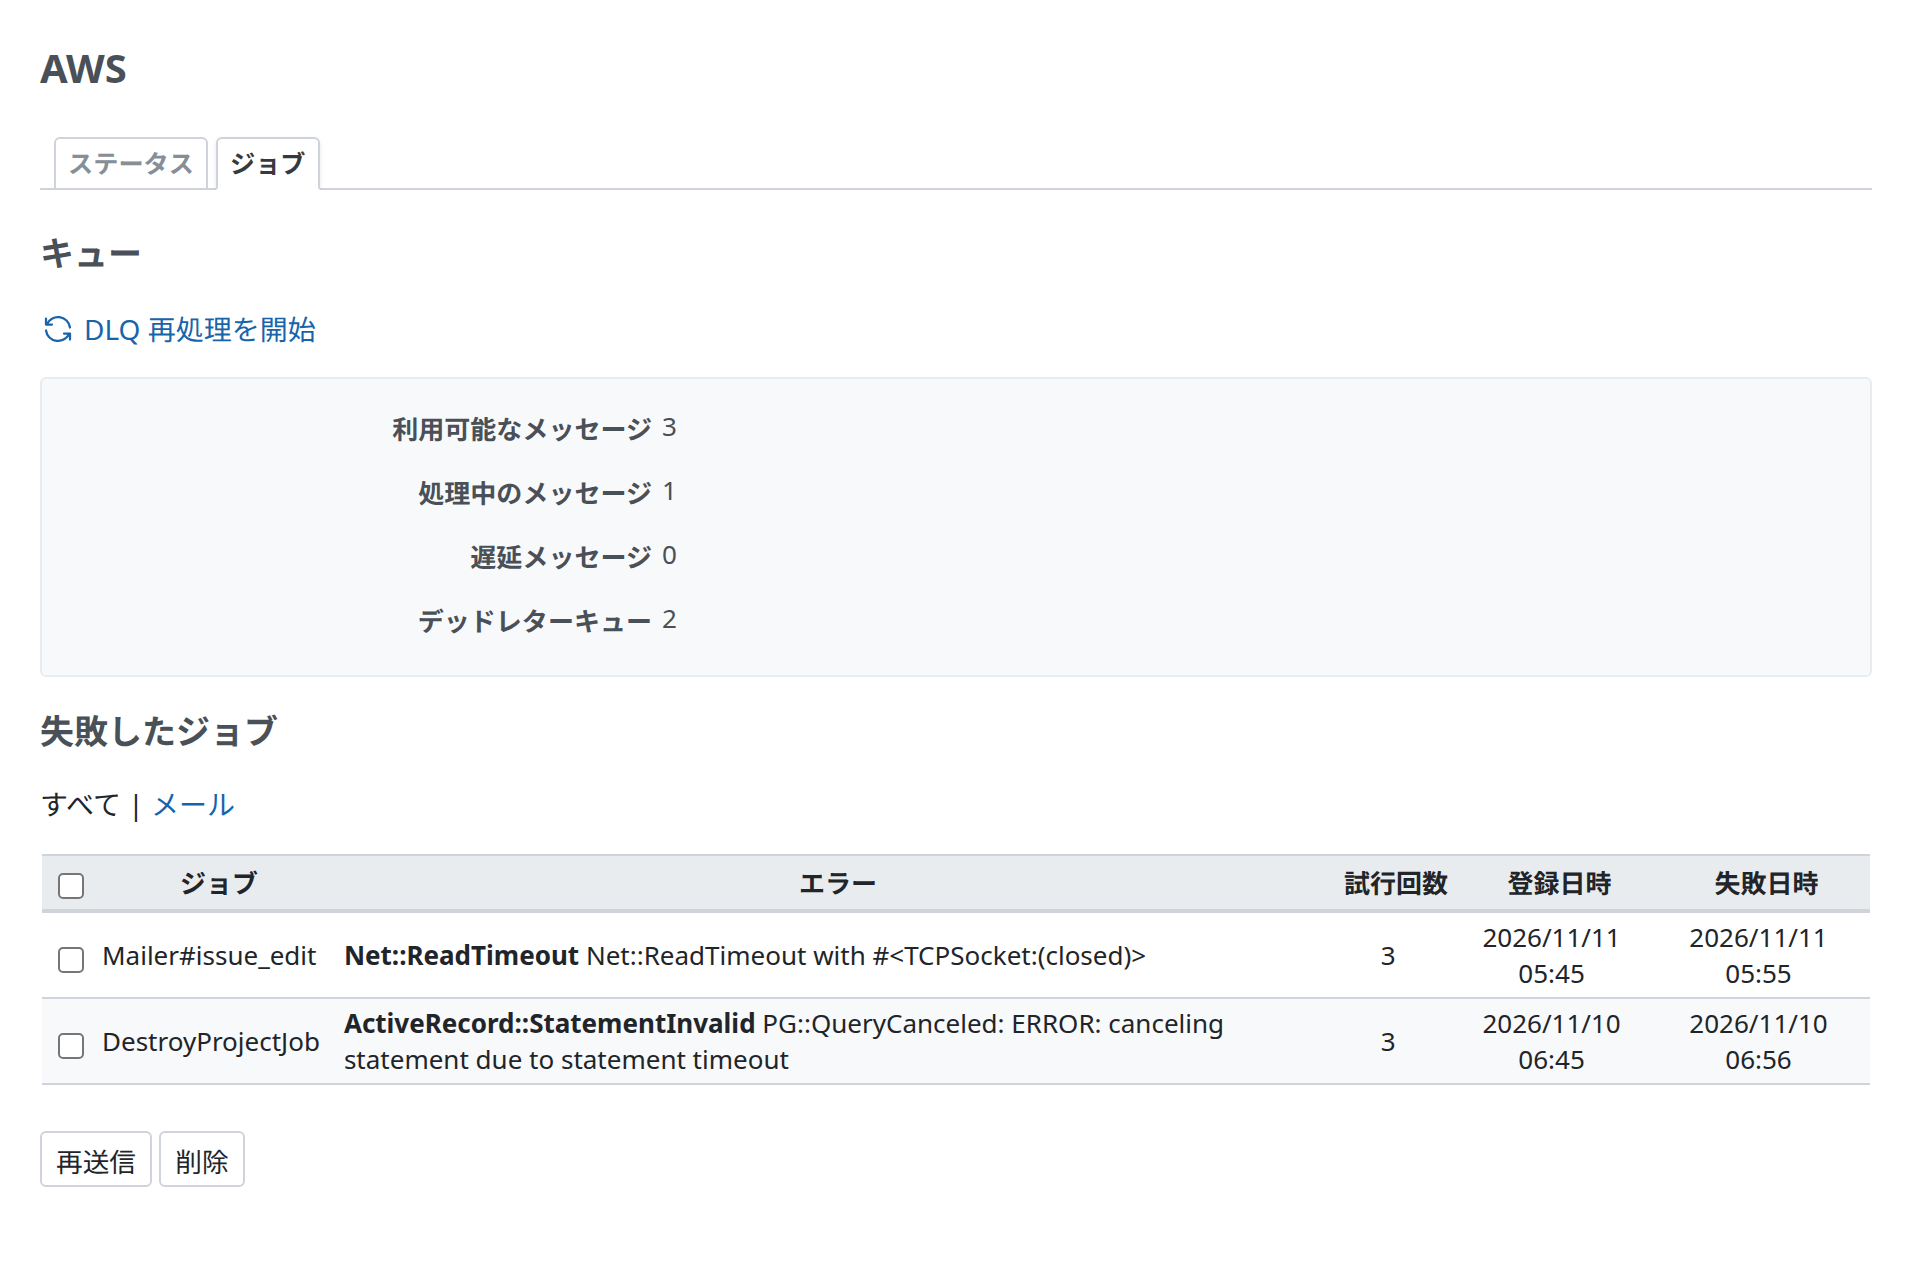
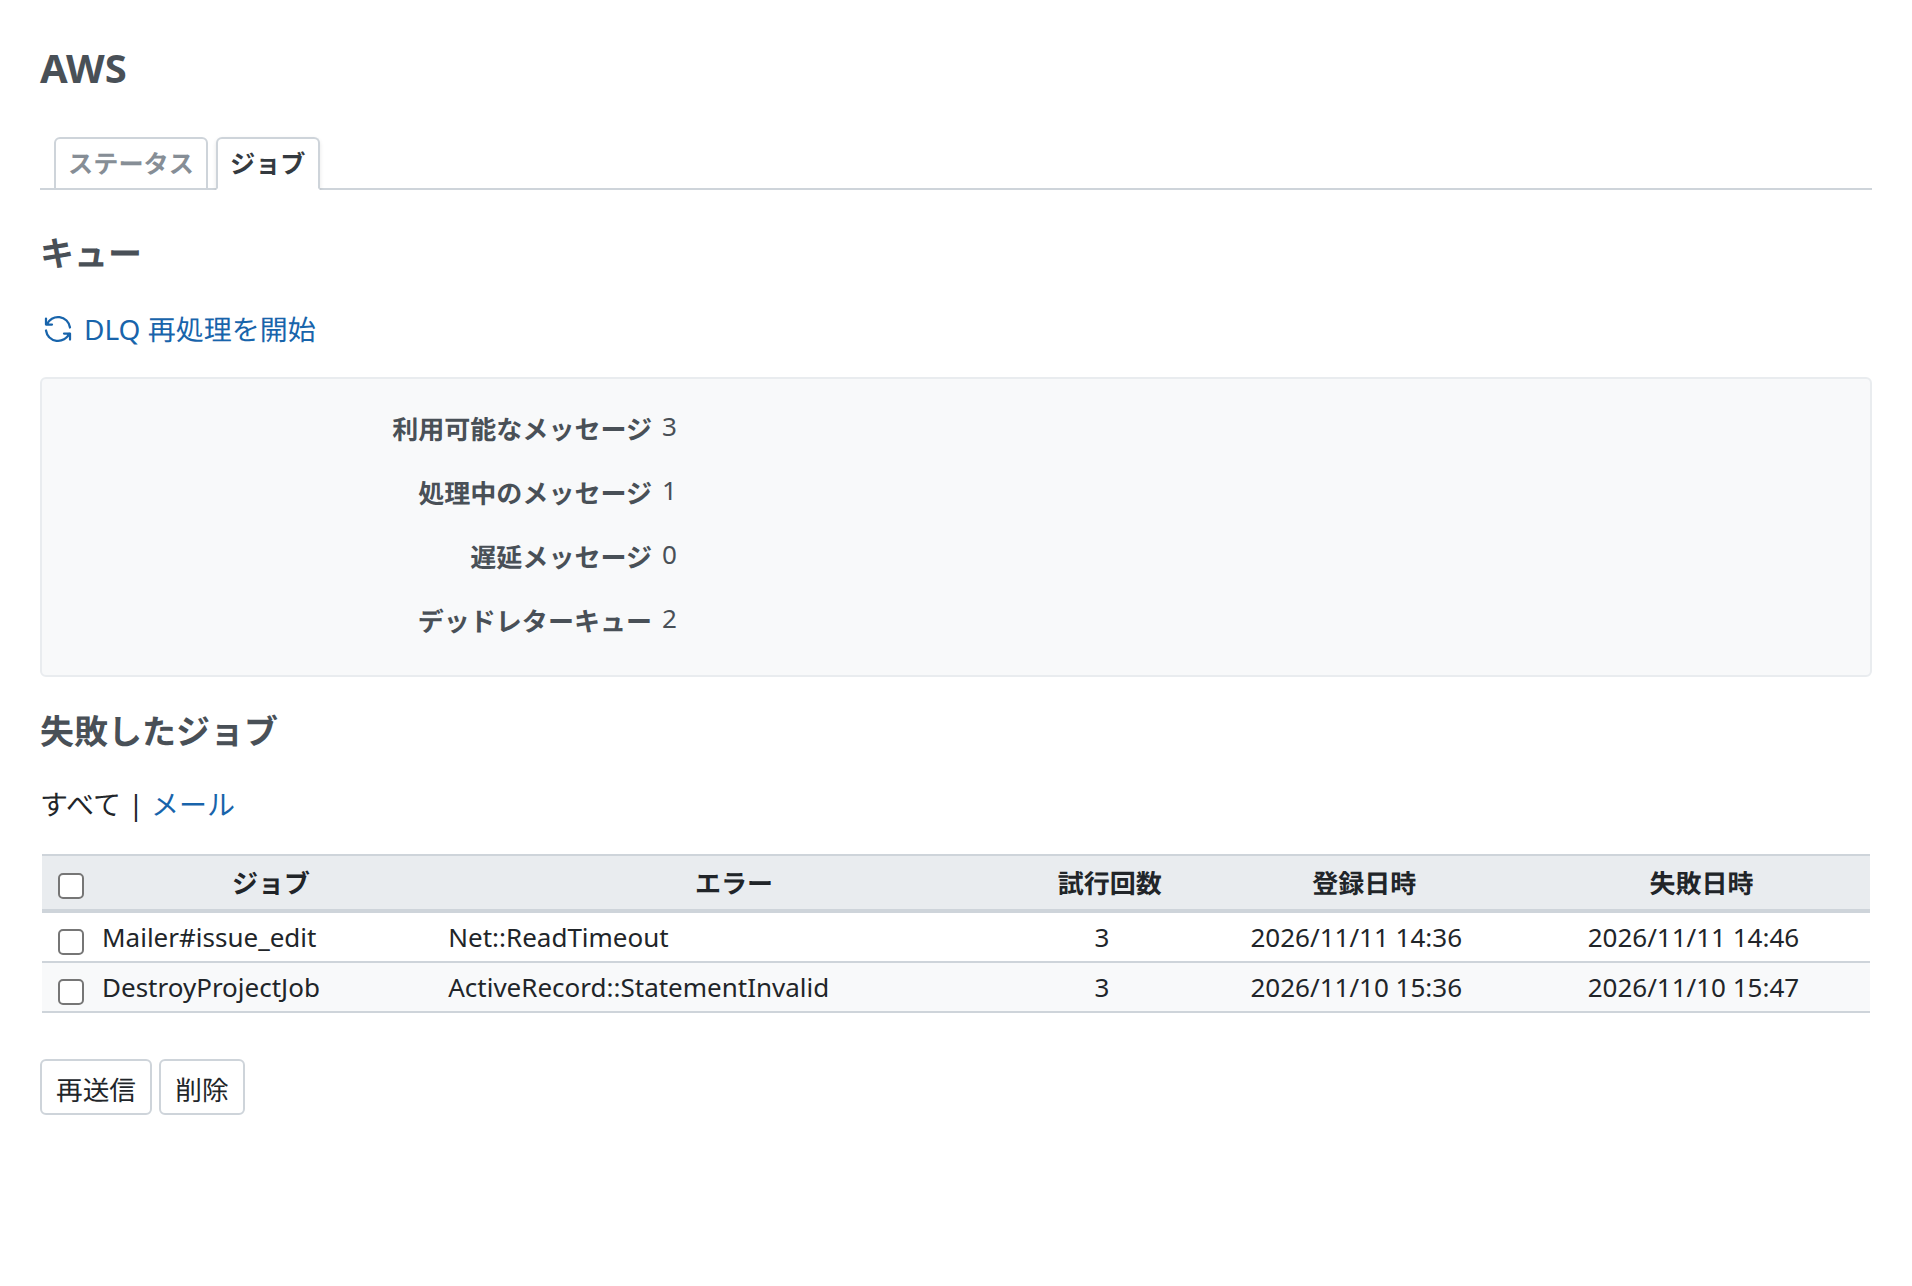
Show only the error's class on the Jobs page
The list of failed jobs showed the error's message, and API errors their
AWS error code. Messages come from services and jobs and may name
accounts, resources or arguments. The page now shows the class, as
Redmine AWS's connection checks do; the message is in the log with the
filtered job (the previous commit).

The record no longer keeps the message: nothing shows it, and the log
is where failures are investigated. Migration 001 drops the
error_message column instead of a later migration removing it, since no
version has been released (no tags).

Changed region(s): [[0.0309, 0.6532, 0.648, 0.9331], [0.648, 0.6532, 0.9566, 0.8398]]

diff --git a/test/functional/aws_sqs_jobs_controller_test.rb b/test/functional/aws_sqs_jobs_controller_test.rb
@@ -45,7 +45,8 @@ module RedmineAws
         end
 
         assert_response :success
-        assert_select 'div.flash.error', text: 'Could not call the SQS API (AccessDenied). See the log for details.'
+        assert_select 'div.flash.error',
+                      text: 'Could not call the SQS API (Aws::SQS::Errors::AccessDenied). See the log for details.'
         assert_not_includes response.body, 'stubbed response error', 'the raw exception message stays in the log'
       end
 
@@ -72,8 +73,18 @@ module RedmineAws
         assert_select '#aws-sqs-job-failures tbody tr', text: /Mailer#test_email/
       end
 
-      # A failed resend: the log has the job with its arguments filtered and
-      # the error's message.
+      # The error's class only, as Redmine AWS's connection checks show it; the
+      # message is in the log.
+      def test_the_list_shows_the_error_class_only
+        record_failure(DestroyProjectJob.new(1, 1, '127.0.0.1'), error: ArgumentError.new('message-secret-22'))
+        with_queue_url(nil) { get :index }
+
+        assert_select '#aws-sqs-job-failures tbody td.description', text: 'ArgumentError'
+        assert_not_includes response.body, 'message-secret-22'
+      end
+
+      # A failed resend: the page names the error's class; the log has the
+      # job with its arguments filtered and the error's message.
       def test_a_failed_resend_is_logged_with_the_job
         job = Mailer.delivery_job.new('Mailer', 'account_information', 'deliver_now', args: [User.find(2), 'pw-23'])
         record = record_failure(job)
@@ -86,7 +97,7 @@ module RedmineAws
           with_sqs_client(client) { post :resend, params: { ids: [record.id] } }
         end
 
-        assert_equal 'Mailer#account_information: Could not call the SQS API (AccessDenied). ' \
+        assert_equal 'Mailer#account_information: Could not call the SQS API (Aws::SQS::Errors::AccessDenied). ' \
                      'See the log for details.', flash[:error]
         assert_includes io.string, "Mailer#account_information(user: #{User.find(2).to_global_id}, " \
                                    'password: [FILTERED]): Aws::SQS::Errors::AccessDenied: ' \

diff --git a/test/screenshots/screens.rb b/test/screenshots/screens.rb
@@ -60,15 +60,13 @@ module RedmineAws
       def record_failures
         now = Time.current
         [
-          ['Mailer::DeliveryJob', 'Mailer#issue_edit', 'mailers', 'Net::ReadTimeout',
-           'Net::ReadTimeout with #<TCPSocket:(closed)>', 3, 3.hours],
-          ['DestroyProjectJob', 'DestroyProjectJob', 'default', 'ActiveRecord::StatementInvalid',
-           'PG::QueryCanceled: ERROR:  canceling statement due to statement timeout', 3, 26.hours]
-        ].each_with_index do |(job_class, summary, queue, error, message, attempts, ago), index|
+          ['Mailer::DeliveryJob', 'Mailer#issue_edit', 'mailers', 'Net::ReadTimeout', 3, 3.hours],
+          ['DestroyProjectJob', 'DestroyProjectJob', 'default', 'ActiveRecord::StatementInvalid', 3, 26.hours]
+        ].each_with_index do |(job_class, summary, queue, error, attempts, ago), index|
           AwsSqsJobFailure.create!(
             job_class: job_class, job_id: SecureRandom.uuid, queue_name: queue, summary: summary,
             job_data: { job_class: job_class, arguments: [] }.to_json,
-            error_class: error, error_message: message, attempts: attempts,
+            error_class: error, attempts: attempts,
             enqueued_at: now - ago - 10.minutes, failed_at: now - ago + index.minutes
           )
         end

diff --git a/app/controllers/aws_sqs_jobs_controller.rb b/app/controllers/aws_sqs_jobs_controller.rb
@@ -63,14 +63,15 @@ class AwsSqsJobsController < ApplicationController
     [nil, api_error(e)]
   end
 
-  # A short message for the page (the AWS error code, or the class), with the
-  # details in the log. job: the message body of a job it concerns,
-  # described with its arguments filtered (RedmineAws::SQS::JobDescription).
+  # A short message for the page with the error's class, as redmine_aws's
+  # connection checks show it; the message, which comes from the service and
+  # may name accounts or resources, goes to the log.
+  # job: the message body of a job it concerns, described with its arguments
+  # filtered (RedmineAws::SQS::JobDescription).
   def api_error(error, job: nil)
     about = "#{RedmineAws::SQS::JobDescription.from_body(job)}: " if job
     logger&.error "[redmine_aws_sqs] #{about}#{error.class}: #{error.message}"
-    l(:text_aws_sqs_jobs_api_error,
-      error: error.respond_to?(:code) && error.code.present? ? error.code : error.class.name)
+    l(:text_aws_sqs_jobs_api_error, error: error.class.name)
   end
 
   def audit(what)

diff --git a/test/unit/aws_sqs_job_failure_test.rb b/test/unit/aws_sqs_job_failure_test.rb
@@ -25,10 +25,14 @@ module RedmineAws
         assert_equal 'not json', failure.job_data
       end
 
-      def test_long_errors_are_cut
-        failure = AwsSqsJobFailure.record!('{}', RuntimeError.new('x' * 10_000), attempts: 1)
+      # The page shows the error's class only; the message is in the log
+      # (Failures.log), and the record does not keep it.
+      def test_the_error_message_is_not_kept
+        failure = AwsSqsJobFailure.record!('{}', RuntimeError.new('message-secret-21'), attempts: 1)
 
-        assert_equal AwsSqsJobFailure::MAX_ERROR, failure.error_message.size
+        assert_equal 'RuntimeError', failure.error_class
+        assert_not_includes AwsSqsJobFailure.column_names, 'error_message'
+        assert_not_includes failure.attributes.values.map(&:to_s), 'message-secret-21'
       end
 
       def test_resend_puts_the_job_back_and_removes_the_record

diff --git a/app/models/aws_sqs_job_failure.rb b/app/models/aws_sqs_job_failure.rb
@@ -1,9 +1,9 @@
 # frozen_string_literal: true
 
 # A job that failed for the last time (docs/admin.md#jobs): its serialized
-# contents, to resend it, and the error.
+# contents, to resend it, and the error's class. The error's message is in the
+# log (RedmineAws::SQS::Failures.log), not here: the page shows the class only.
 class AwsSqsJobFailure < ApplicationRecord
-  MAX_ERROR = 4000
   KEEP_DAYS = 90
   MAIL_JOBS = %w[Mailer::DeliveryJob ActionMailer::MailDeliveryJob].freeze
 
@@ -18,7 +18,6 @@ class AwsSqsJobFailure < ApplicationRecord
             summary: summarize(data).first(255),
             job_data: body.to_s,
             error_class: error.class.name.first(255),
-            error_message: error.message.to_s.first(MAX_ERROR),
             attempts: attempts,
             enqueued_at: enqueued_at,
             failed_at: Time.current)

diff --git a/test/unit/lambda_handler_patch_test.rb b/test/unit/lambda_handler_patch_test.rb
@@ -54,7 +54,6 @@ module RedmineAws
 
         assert_equal 'RedmineAwsSqsTestJob', failure.job_class
         assert_equal 'ArgumentError', failure.error_class
-        assert_equal 'the job failed', failure.error_message
         assert_equal 3, failure.attempts
         assert_not_nil failure.enqueued_at
       end
@@ -114,7 +113,7 @@ module RedmineAws
       end
 
       # The failure's log line has the job with its arguments filtered, the
-      # error's class and message.
+      # error's class and message; the page shows the class only.
       def test_a_recorded_failure_is_logged
         io = StringIO.new
         saved = Rails.logger

diff --git a/db/migrate/001_create_aws_sqs_job_failures.rb b/db/migrate/001_create_aws_sqs_job_failures.rb
@@ -9,7 +9,6 @@ class CreateAwsSqsJobFailures < ActiveRecord::Migration[8.1]
       t.string :summary
       t.text :job_data, null: false
       t.string :error_class, null: false
-      t.text :error_message
       t.integer :attempts, null: false, default: 0
       t.datetime :enqueued_at
       t.datetime :failed_at, null: false

diff --git a/docs/admin.md b/docs/admin.md
@@ -4,7 +4,7 @@ This is the administration page of Redmine AWS SQS. Only Redmine administrators 
 
 | Item | Details |
 | --- | --- |
-| No secrets shown | AWS credentials and the message bodies of failed jobs are not shown. Queue counts are cached for 1 minute |
+| No secrets shown | AWS credentials, the message bodies of failed jobs and the messages of errors are not shown; errors are shown by their class, as on the "Status" tab of Redmine AWS. Queue counts are cached for 1 minute |
 | Job arguments in the log | With the job queue on, a job's arguments are written to Redmine's log by the names of their parameters (the job's `perform`, or the mailer method for email), with Redmine's records as their IDs (GlobalID) and values cut at 50 characters. Rails' parameter filter (`config.filter_parameters`; Redmine filters `password`, `salt`, `twofa_totp_key` and `key`) replaces secrets with `[FILTERED]`, and `password` is filtered even without it: the account information email is logged as `Mailer#account_information(user: gid://redmine-app/User/2, password: [FILTERED])`. An argument without a known name is filtered unless it is a record or a number. This applies to ActiveJob's "Enqueued" and "Performing" lines, the failures the plugin records and failed resends. On Lambda, the line in which the gem's handler writes the whole event is written without it |
 | Operations are logged | Resending, deleting and the DLQ redrive are written to Redmine's log with who did what (`[redmine_aws_sqs] <login> resent 1 of 1 job(s)`) |
 
@@ -16,7 +16,7 @@ This is the administration page of Redmine AWS SQS. Only Redmine administrators 
 | --- | --- | --- |
 | Queue | Messages available, messages in flight, messages delayed (the terms of the SQS console; see "Terms" below) | SQS `GetQueueAttributes` (`ApproximateNumberOfMessages`, etc.) |
 | Dead-letter queue | Number of jobs in the dead-letter queue | `GetQueueAttributes` of the dead-letter queue, found from the job queue's redrive policy |
-| List of failed jobs | The job (for email, the mailer and the mail, such as `Mailer#issue_add`; failed email can be listed on its own), error class and message, attempts, when it was enqueued and when it failed. The newest 100. The check box in the header row selects all rows, as in Redmine's issue list | The plugin's table (below) |
+| List of failed jobs | The job (for email, the mailer and the mail, such as `Mailer#issue_add`; failed email can be listed on its own), the error's class (its message is in Redmine's log), attempts, when it was enqueued and when it failed. The newest 100. The check box in the header row selects all rows, as in Redmine's issue list | The plugin's table (below) |
 | Resend | Puts the selected jobs back on the job queue, and removes their records | `SendMessage` with the recorded message |
 | Delete | Removes the selected records | — |
 | Start DLQ redrive | Moves the jobs in the dead-letter queue back to the job queue. Shown when the dead-letter queue has jobs | SQS `StartMessageMoveTask` |
@@ -24,7 +24,7 @@ This is the administration page of Redmine AWS SQS. Only Redmine administrators 
 
 | Item | Details |
 | --- | --- |
-| Recording failures | A job that raises is retried by SQS. The plugin records it on the receive after which SQS moves the message to the dead-letter queue (the `ApproximateReceiveCount` of the message reaches the `maxReceiveCount` of the job queue's redrive policy). It stores the message body (`job.serialize`), the error and the number of receives in its table (`aws_sqs_job_failures`), and the message still moves to the dead-letter queue, in case writing to the database fails. It also writes the job (its arguments filtered as above), the error's class and its message to Redmine's log (`[redmine_aws_sqs] job failed after 3 receive(s): …`); for a body that is not JSON, the class only, since the parser's message quotes the body. A message that can never run (not JSON, or a job class outside the allowed ones) is recorded at once and deleted, without retries. Without a redrive policy, SQS keeps a failing message until its retention period ends, and nothing is recorded |
+| Recording failures | A job that raises is retried by SQS. The plugin records it on the receive after which SQS moves the message to the dead-letter queue (the `ApproximateReceiveCount` of the message reaches the `maxReceiveCount` of the job queue's redrive policy). It stores the message body (`job.serialize`), the error's class and the number of receives in its table (`aws_sqs_job_failures`), and the message still moves to the dead-letter queue, in case writing to the database fails. It also writes the job (its arguments filtered as above), the error's class and its message to Redmine's log (`[redmine_aws_sqs] job failed after 3 receive(s): …`); for a body that is not JSON, the class only, since the parser's message quotes the body. A message that can never run (not JSON, or a job class outside the allowed ones) is recorded at once and deleted, without retries. Without a redrive policy, SQS keeps a failing message until its retention period ends, and nothing is recorded |
 | Where it is recorded | On Lambda, the plugin wraps the gem's handler (`Aws::ActiveJob::SQS::LambdaHandler.job_handler`, by `prepend`). With the gem's poller, it sets the gem's `poller_error_handler` and `permanent_failure_handler`, unless the application set its own |
 | Resending | The recorded message body is sent to the job queue as it was, with the message attributes the adapter writes. Only a job of an allowed class is sent; the job runs again with the same job ID. The record and the dead-letter queue are separate: a resent job is usually still in the dead-letter queue too, so resend it from one place only (the DLQ redrive as well would run it twice) |
 | Resend flow | Fix the cause first (for example, resume SES sending, or remove an address from the suppression list), then resend. Which email errors are retried is decided by [Redmine AWS SES](https://redmine-kit.github.io/redmine_aws_ses/); resending email is described in [Serverless mail.md](https://redmine-kit.github.io/serverless/mail.html#when-sending-fails) |
